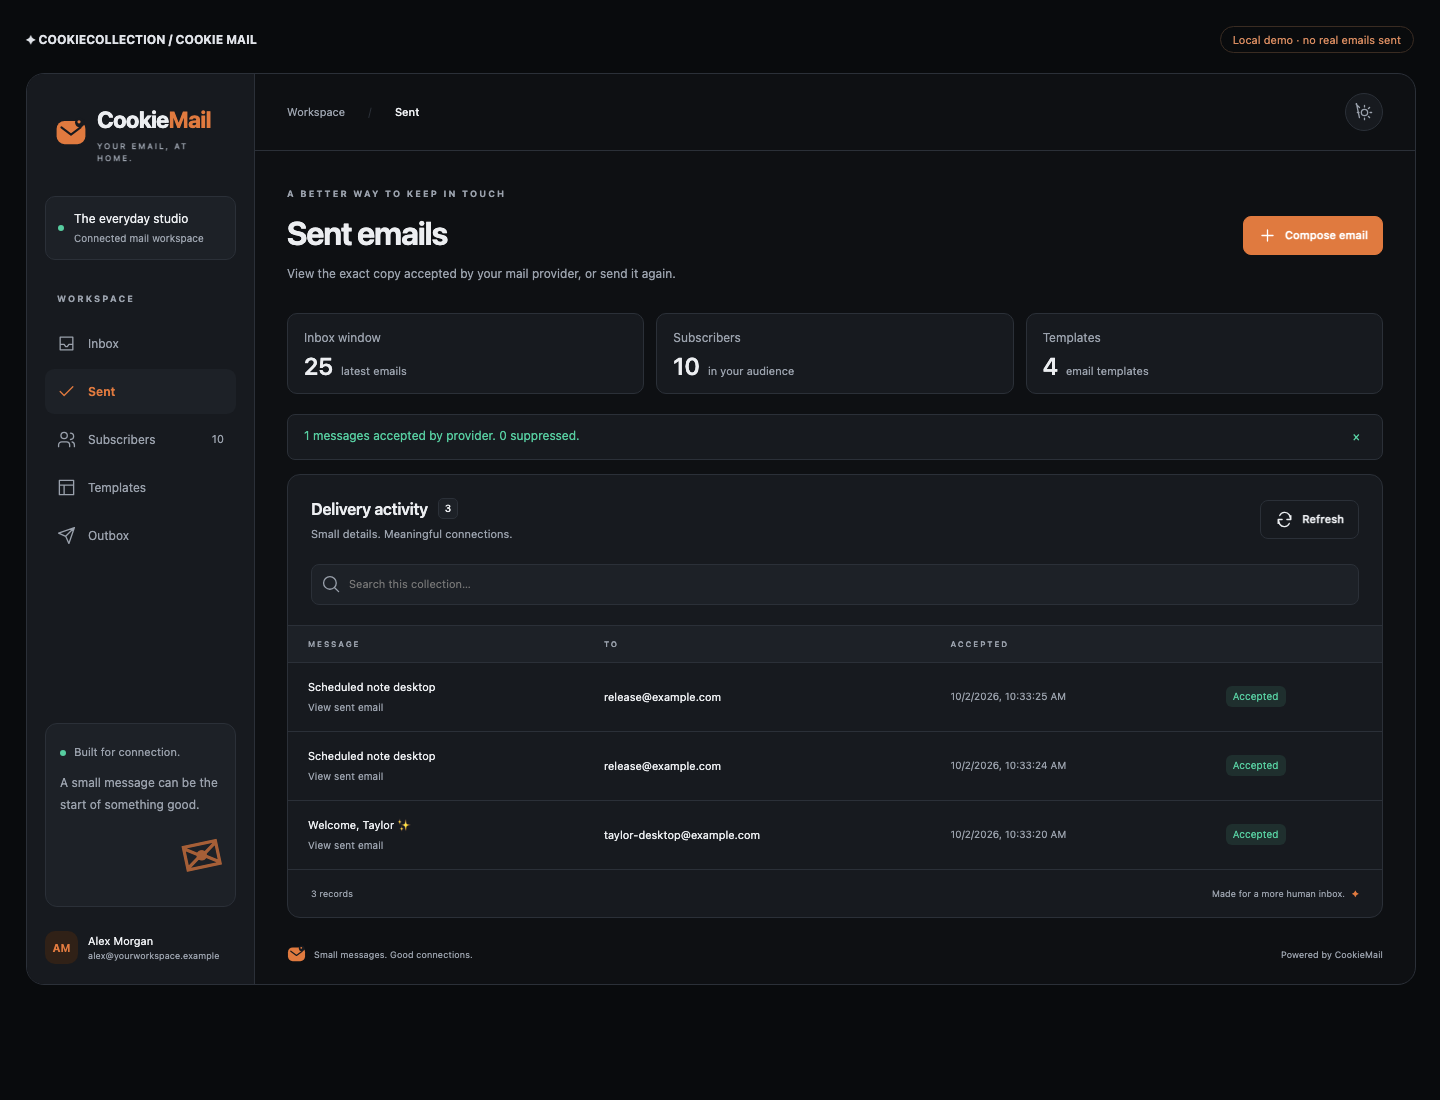
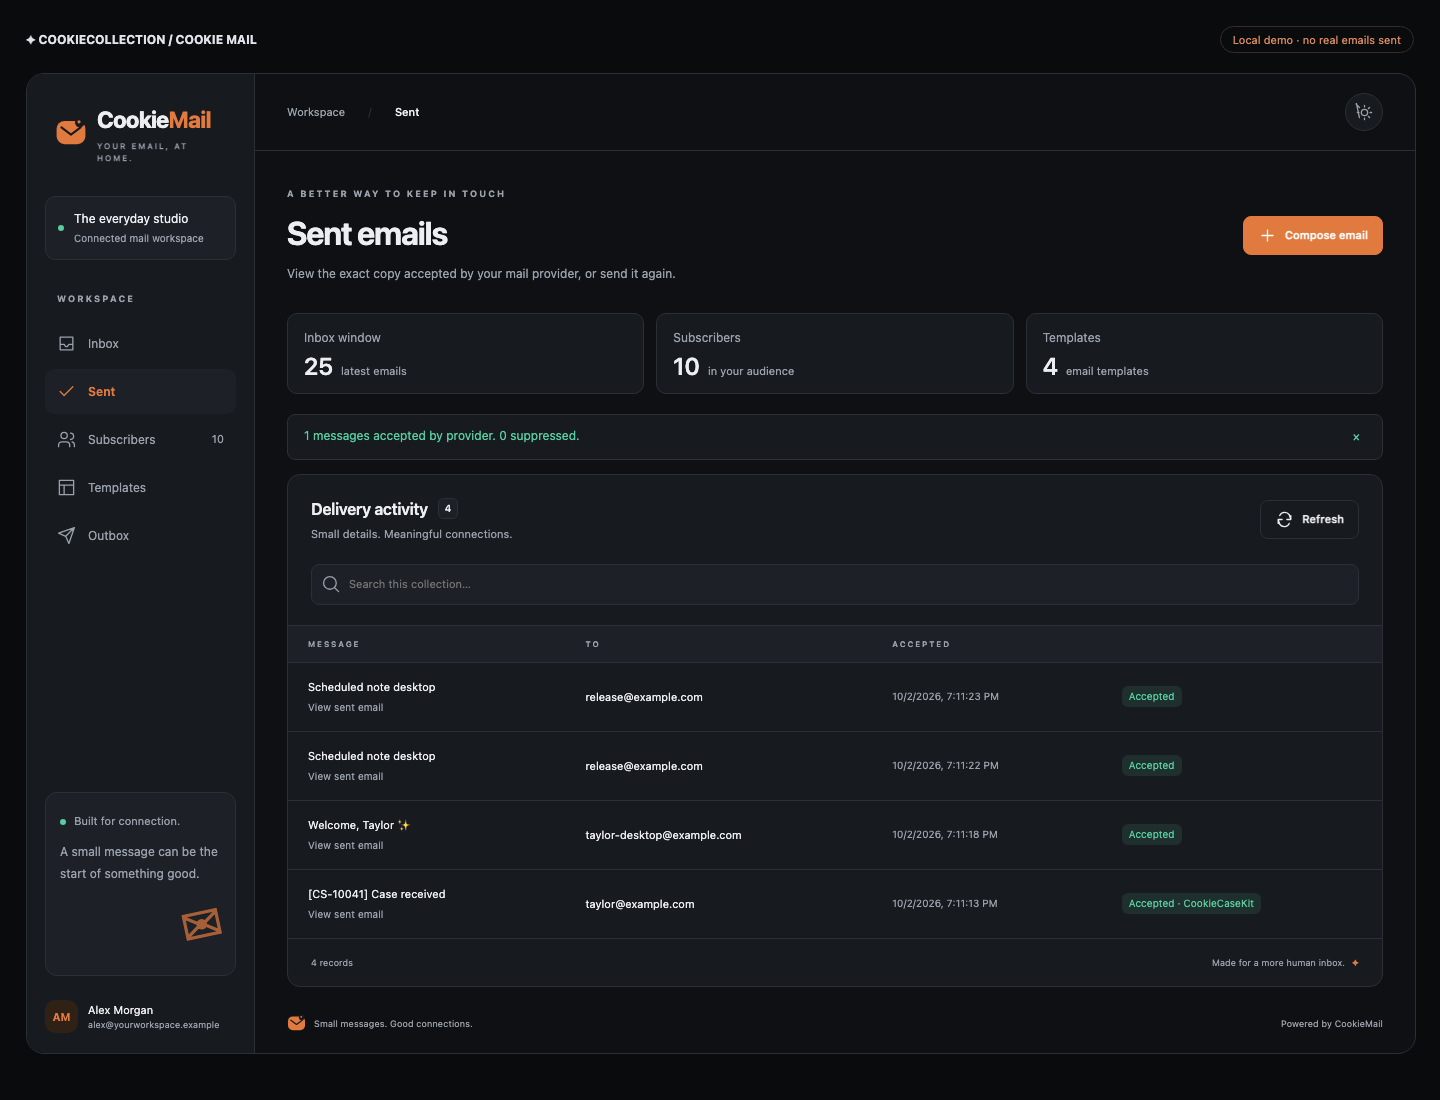
feat: import shared transactional sent history in 2.2.0

diff --git a/src/index.ts b/src/index.ts
@@ -311,8 +311,52 @@ export function createCookieMail(config: CookieMailConfig) {
   const receiptId = (id: string) =>
     z
       .string()
-      .regex(/^[a-f0-9-]{36}\.[0-9]{1,3}$/)
+      .regex(/^(?:[a-f0-9-]{36}\.[0-9]{1,3}|external-[a-f0-9]{64})$/)
       .parse(id);
+  /** Trusted server-only import of a confirmed transactional delivery; never sends an email. */
+  async function recordSent(input: unknown) {
+    const s = z
+      .object({
+        to: email,
+        subject: z
+          .string()
+          .min(1)
+          .max(200)
+          .refine((v) => !/[\r\n]/.test(v)),
+        text: z.string().max(30000),
+        html: z.string().max(60000).optional(),
+        messageId: z.string().regex(/^<[^<>\s]{1,990}>$/),
+        sentAt: z.string().datetime({ offset: true }),
+        source: z.string().trim().min(1).max(80),
+      })
+      .strict()
+      .parse(input);
+    const id = 'external-' + hash(s.messageId + '\n' + s.to.toLowerCase());
+    const fingerprint = hash(JSON.stringify(s));
+    await atomic(store, workspace, async (tx) => {
+      const key = 'sent-' + id,
+        old = await tx.get(key);
+      if (old) {
+        if (old.fingerprint !== fingerprint)
+          throw new HttpError(409, 'Sent receipt already exists with different content');
+        return;
+      }
+      const html = s.html ? cleanHtml(s.html) : null;
+      tx.put(key, {
+        ...s,
+        html,
+        id,
+        jobId: id,
+        fingerprint,
+        status: 'sent',
+        baseText: s.text,
+        baseHtml: html,
+        inReplyTo: s.messageId,
+        subscriberId: null,
+      });
+    });
+    return { id };
+  }
   async function sentRecord(id: string) {
     const value = await read('sent-' + receiptId(id));
     if (!value || value.status !== 'sent') throw new HttpError(404, 'Sent email not found');
@@ -329,10 +373,12 @@ export function createCookieMail(config: CookieMailConfig) {
       html: s.html ? cleanHtml(String(s.html)) : undefined,
       messageId: String(s.messageId),
       sentAt: String(s.sentAt),
+      source: typeof s.source === 'string' ? s.source : 'CookieMail',
     };
   }
   async function listSent() {
-    const out: Array<Pick<SentMessage, 'id' | 'jobId' | 'to' | 'subject' | 'sentAt'>> = [];
+    const out: Array<Pick<SentMessage, 'id' | 'jobId' | 'to' | 'subject' | 'sentAt' | 'source'>> =
+      [];
     let count = 0;
     for await (const { value: s } of documents(store, workspace, 'sent-')) {
       if (++count > 5000) throw new HttpError(413, 'Workspace exceeds the 5000-record list limit');
@@ -343,6 +389,7 @@ export function createCookieMail(config: CookieMailConfig) {
           to: String(s.to),
           subject: String(s.subject),
           sentAt: String(s.sentAt),
+          source: typeof s.source === 'string' ? s.source : 'CookieMail',
         });
     }
     return out.sort((a, b) => String(b.sentAt).localeCompare(String(a.sentAt)));
@@ -715,6 +762,7 @@ export function createCookieMail(config: CookieMailConfig) {
     queue,
     flush,
     trash,
+    recordSent,
     listSent,
     getSent,
     resend,

diff --git a/tests/delivery-v2.test.ts b/tests/delivery-v2.test.ts
@@ -400,3 +400,35 @@ test('oversized rendered snapshots fail before a send is queued', async () => {
     await f.kit.close();
   }
 });
+
+test('external transactional receipts are visible, idempotent and preserve threading on resend', async () => {
+  const f = fixture();
+  try {
+    const receipt = {
+      to: 'member@example.com',
+      subject: '[CS-00001] Case received',
+      text: 'Your case is open',
+      messageId: '<case-notice@example.com>',
+      sentAt: new Date().toISOString(),
+      source: 'CookieCaseKit',
+    };
+    const first = await f.kit.recordSent(receipt);
+    assert.deepEqual(await f.kit.recordSent(receipt), first);
+    assert.equal(f.sent.length, 0, 'importing history never sends mail');
+    assert.equal((await f.kit.listSent()).length, 1);
+    assert.equal((await f.kit.getSent(first.id)).source, 'CookieCaseKit');
+    await assert.rejects(f.kit.recordSent({ ...receipt, text: 'Changed' }), /different content/);
+    await f.kit.resend(first.id, { idempotencyKey: randomUUID() });
+    await f.kit.flush();
+    assert.equal(f.sent.length, 1);
+    assert.equal(f.sent[0].inReplyTo, receipt.messageId);
+    const other = fixture({ workspace: 'other' });
+    try {
+      await assert.rejects(other.kit.getSent(first.id), /not found/);
+    } finally {
+      await other.kit.close();
+    }
+  } finally {
+    await f.kit.close();
+  }
+});

diff --git a/src/react.tsx b/src/react.tsx
@@ -669,7 +669,12 @@ export function CookieMail({
                             <td>{item.to}</td>
                             <td className="cm-date">{fullDate(item.sentAt)}</td>
                             <td>
-                              <span className="cm-badge cm-green">Accepted</span>
+                              <span className="cm-badge cm-green">
+                                Accepted
+                                {item.source && item.source !== 'CookieMail'
+                                  ? ` · ${item.source}`
+                                  : ''}
+                              </span>
                             </td>
                           </>
                         ) : (
@@ -827,7 +832,8 @@ export function CookieMail({
         <Modal title={sentMessage.subject} onClose={() => setSentMessage(null)} wide>
           <div className="cm-modal-body">
             <p className="cm-help">
-              To: {sentMessage.to} · Accepted by provider: {fullDate(sentMessage.sentAt)}
+              {sentMessage.source || 'CookieMail'} · To: {sentMessage.to} · Accepted by provider:{' '}
+              {fullDate(sentMessage.sentAt)}
             </p>
             {sentMessage.html ? (
               <iframe

diff --git a/tests/ui.spec.ts b/tests/ui.spec.ts
@@ -214,3 +214,26 @@ test('compact cards, schedule/change/cancel, sent reader/resend and Trash confir
   await expect(page.locator('.cm-table tbody tr')).toHaveCount(0);
   expect(await page.evaluate(() => document.documentElement.scrollWidth <= innerWidth)).toBe(true);
 });
+
+test('shared case notifications appear in sent history with their source', async ({
+  page,
+}, info) => {
+  await page.goto('/');
+  await page
+    .getByRole('navigation', { name: 'Mail navigation' })
+    .getByRole('button', { name: 'Sent', exact: true })
+    .click();
+  const row = page.locator('.cm-table tbody tr').filter({ hasText: '[CS-10041] Case received' });
+  await expect(row).toContainText('CookieCaseKit');
+  await row
+    .getByRole('button', { name: '[CS-10041] Case received View sent email', exact: true })
+    .click();
+  await expect(page.getByRole('dialog')).toContainText('CookieCaseKit');
+  await expect(page.getByRole('dialog')).toContainText(
+    'Reply to this email to continue the conversation.',
+  );
+  await page.screenshot({
+    path: `docs/screenshots/shared-case-email-${info.project.name}.png`,
+    fullPage: false,
+  });
+});

diff --git a/examples/demo.ts b/examples/demo.ts
@@ -135,6 +135,14 @@ for (const [name, subject, title, body, button] of [
       { id: 'f', kind: 'text', content: 'Made with care. Sent with a little optimism.' },
     ],
   });
+await kit.recordSent({
+  to: 'taylor@example.com',
+  subject: '[CS-10041] Case received',
+  text: 'Thanks Taylor. Your support case has been received. Reply to this email to continue the conversation.',
+  messageId: '<demo-case-10041@example.com>',
+  sentAt: new Date().toISOString(),
+  source: 'CookieCaseKit',
+});
 await mkdir('dist', { recursive: true });
 await build({
   entryPoints: ['examples/demo-client.tsx'],

diff --git a/src/types.ts b/src/types.ts
@@ -76,6 +76,7 @@ export interface Subscriber {
 
 /** A per-recipient copy accepted by the provider, not a delivery/read receipt. */
 export interface SentMessage {
+  source?: string;
   id: string;
   jobId: string;
   to: string;

diff --git a/README.md b/README.md
@@ -38,7 +38,7 @@ Open **http://127.0.0.1:3177**. The demo binds only to loopback, signs in a fake
 Install from npm:
 
 ```sh
-npm install cookiemail@2.1.0
+npm install cookiemail@2.2.0
 ```
 
 For local package development, build and install a tarball:
@@ -307,7 +307,7 @@ See [Cloud setup](docs/CLOUD.md) for Firebase Functions, Cloud Run, AWS and Azur
 
 See [Security](SECURITY.md) and [Publishing](docs/PUBLISHING.md). The repository includes CI, nightly dependency audit, daily Dependabot PRs and tag-based npm publishing with provenance. No mailbox credentials or cloud accounts are shipped.
 
-Current scope: one inbox folder with safe move-to-Trash; no permanent deletion, attachment download/upload, arbitrary folder moves, sent-folder IMAP append, native OAuth onboarding, double opt-in, analytics/open tracking or provider webhooks. “Sent” contains per-recipient copies accepted through CookieMail v2, not the provider’s entire Sent folder. Version 1 sends remain in Outbox activity, but cannot be retroactively reconstructed as exact sent copies. Search is subject/sender through IMAP and a local filter for the loaded audience/templates. Receiving from an existing mailbox is supported; operating an email server is not.
+Current scope: one inbox folder with safe move-to-Trash; no permanent deletion, attachment download/upload, arbitrary folder moves, sent-folder IMAP append, native OAuth onboarding, double opt-in, analytics/open tracking or provider webhooks. “Sent” contains per-recipient copies accepted through CookieMail v2 plus explicitly imported confirmed transactional receipts, not the provider’s entire Sent folder. Version 1 sends remain in Outbox activity, but cannot be retroactively reconstructed as exact sent copies. Search is subject/sender through IMAP and a local filter for the loaded audience/templates. Receiving from an existing mailbox is supported; operating an email server is not.
 
 ## Develop
 
@@ -359,3 +359,23 @@ See the [v2.0.0 release notes](docs/RELEASE-2.0.0.md) for changes, migration det
 ## 2.1.0 maintenance release
 
 See the [release notes](docs/RELEASE-2.1.0.md) for dependency updates and build compatibility. Existing setup, APIs and screenshots remain applicable. Contributors run TypeScript 7 through `npm run typecheck`; tsup uses the compatible TypeScript 5.9 compiler API for package declarations.
+
+## Shared sent activity with CookieCaseKit (2.2.0)
+
+SMTP clients do not automatically share their sending history. To include case notifications in this workspace, use CookieCaseKit 1.2+ with the same trusted worker:
+
+```ts
+await cases.flushEmails(tenant);
+await cases.syncSentEmails(
+  tenant,
+  (message) => mail.recordSent({ ...message, source: 'CookieCaseKit' }),
+  100,
+);
+```
+
+This imports confirmed notifications (including existing CaseKit history), without sending again. `recordSent` accepts `to`, `subject`, `text`, optional `html`, `messageId`, ISO `sentAt` and `source`. Repeating the same receipt returns its original ID; conflicting content is rejected. Call it only on the server after confirmed transport acceptance. There is no public import route. This method is for transactional history; campaigns should use the subscriber-aware queue.
+
+Sent rows/readers show the source. Explicit resends keep the original thread reference, allowing a subsequent reply to match CaseKit. This does not automatically import the provider's Sent folder or mail sent by unrelated apps. Incoming messages remain in Inbox, and case replies also appear in the case conversation after CaseKit polls the mailbox.
+
+![CookieCaseKit email in CookieMail](docs/screenshots/shared-case-email-desktop.png)
+[Mobile view](docs/screenshots/shared-case-email-mobile.png) · [Release notes](docs/RELEASE-2.2.0.md)

diff --git a/docs/RELEASE-2.2.0.md b/docs/RELEASE-2.2.0.md
@@ -1,0 +1,16 @@
+# CookieMail 2.2.0
+
+Shared sent activity now supports confirmed transactional emails sent by CookieCaseKit or another trusted server component.
+
+- Add server-only `recordSent(message)` with idempotent Message-ID/recipient identity and conflict detection.
+- Show the originating application in Sent rows and the message reader.
+- Imported messages can be viewed and explicitly resent; resends reference the original Message-ID so replies can still match the case thread.
+- Importing a receipt never sends an email. Existing admin/viewer, tenant and origin rules continue to protect the private UI and API. No public receipt-writing endpoint is exposed.
+- Refresh desktop/mobile screenshots with a CookieCaseKit notification.
+
+Install `cookiemail@2.2.0` in server and React applications. For CookieCaseKit 1.2+, run `cases.syncSentEmails(tenant, message => mail.recordSent({...message, source: 'CookieCaseKit'}))` from the support worker. Existing confirmed CaseKit outbox records can backfill; do not import unconfirmed or failed attempts. No new secret or schema migration is required.
+
+The Sent view combines CookieMail deliveries and explicitly imported transactional receipts. It does not scan an external provider's entire Sent folder or discover other SMTP clients automatically. Use the direct method for other trusted sending components; keep marketing sends on CookieMail's subscriber-aware queue.
+
+![Shared case notification](screenshots/shared-case-email-desktop.png)
+[Mobile screenshot](screenshots/shared-case-email-mobile.png)

diff --git a/CHANGELOG.md b/CHANGELOG.md
@@ -1,5 +1,11 @@
 # Changelog
 
+## 2.2.0
+
+- Add idempotent server-side imports of confirmed transactional sent messages and source labels in the UI.
+- Support CookieCaseKit notification history/backfill and preserve original threading on explicit resend.
+- Update docs and desktop/mobile screenshots. See [release notes](docs/RELEASE-2.2.0.md).
+
 ## 2.1.0
 
 - Integrate all nine open dependency PRs, including current GitHub Actions and Node, Nodemailer and Supertest types.
